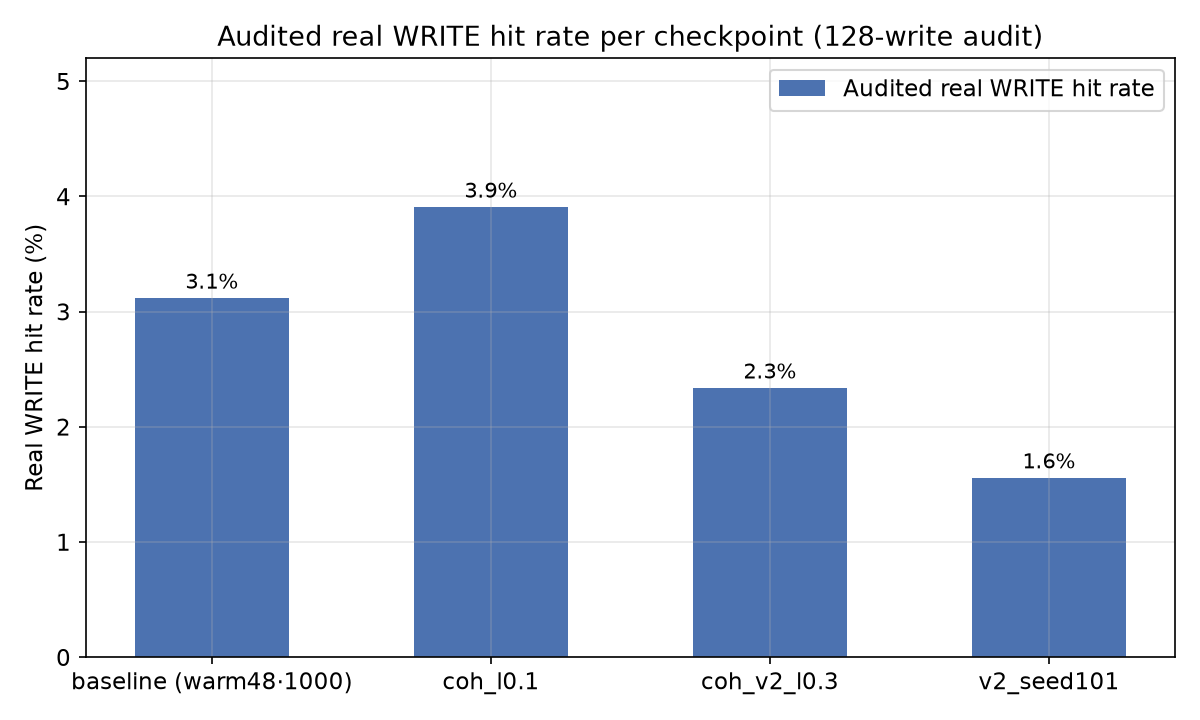
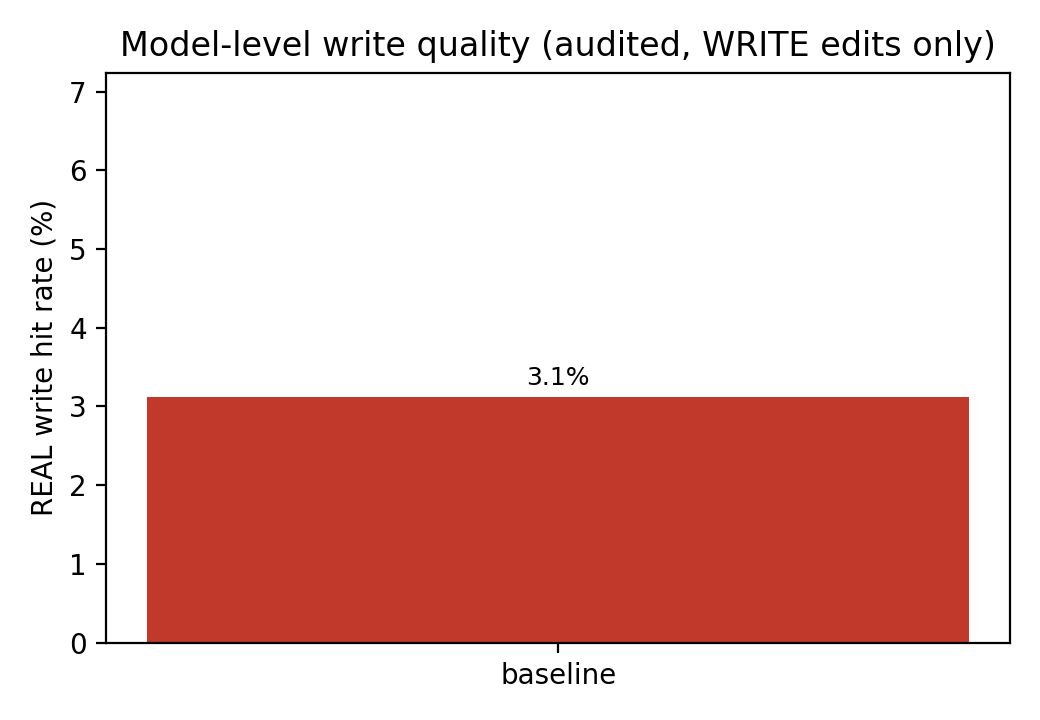
feat(w5): ipynb reproduction entry point for the W4/W5 results
Adds w4_w5_results_reproduce.ipynb (executed, outputs stored). Part A rebuilds every W5 table and both figures from results/audit_*.json and the eval_*/w3_calm_stream_*.json records; Part B re-runs train_accum_warm (5 steps), audit_per_edit (16 edits) and w3_calm_stream (16 edits) on the local .venv to prove the pipelines still resolve repo root, EasyEdit data and hparams after the consolidation. Figures regenerated from the audit JSONs; fixed the broken raw-vs-audited figure filename in the results summary.

diff --git a/FONG CHIN WAI/w5_results_and_figures/w4_w5_main_results.md b/FONG CHIN WAI/w5_results_and_figures/w4_w5_main_results.md
@@ -79,12 +79,28 @@ Audit conclusion:
 
 ![Audited real WRITE hit rate per checkpoint](w5_audited_real_write_hit.png)
 
-![Raw model-level vs audited real WRITE hit](w5_raw_vs_audited_write_hit.png)
+![Raw model-level vs audited real WRITE hit](w5_raw_vs_audited_real_write_hit.png)
 
 ## 4. Bottom line
 
 - **System level:** the bounded-write + dual-write fix solves lifelong retention end-to-end (97.48% rewrite, 9/9 retention on 5K CounterFact).
 - **Model level:** the earlier 22.2% / 86.7% claims were inflated by REJECT false hits; real parameter-WRITE quality is ~1.6–3.9% across audited checkpoints. Improving it remains an open problem (further warm-started training, lr decay, longer steps).
+
+## Reproduction
+
+`w4_w5_results_reproduce.ipynb` is the single entry point for every number above:
+
+- **Part A** rebuilds the tables in this file and both figures straight from
+  `FONG CHIN WAI/w4_model_level_improve/results/audit_*.json` and the
+  `eval_*/w3_calm_stream_*.json` run records. Seconds, no GPU.
+- **Part B** re-executes the three pipelines locally against `./.venv`
+  (RTX 4070 Laptop; 5 training steps + 16 edits, ~75 s total) to confirm the scripts still
+  resolve their repo root, `EasyEdit/data` and `EasyEdit/hparams` after the
+  `FONG CHIN WAI/` consolidation. Part B is a plumbing check and yields no reportable
+  metrics - only Part A carries the numbers.
+
+The notebook ships with its outputs stored and drives everything through `subprocess`, so it
+runs on any Python 3 kernel.
 
 ## Data sources
 
